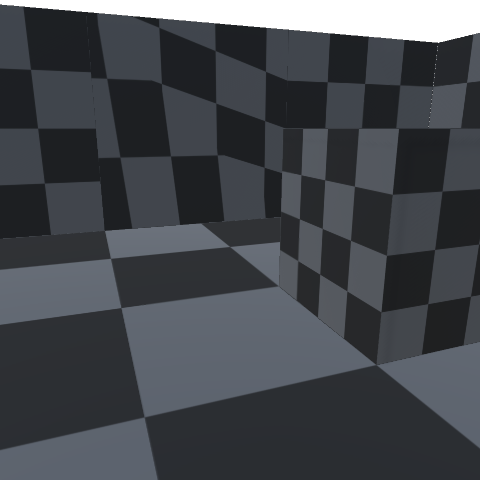
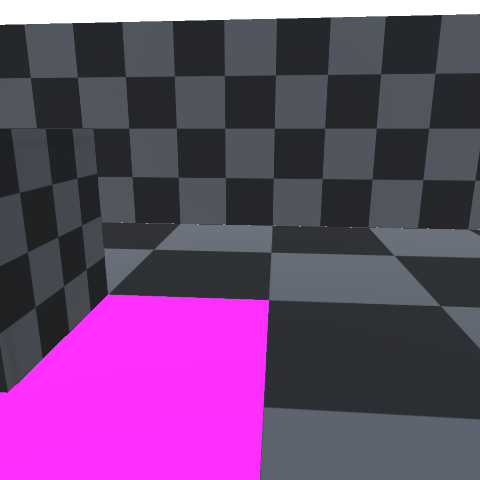
black screen is finally working

diff --git a/UnityProject/Assets/Scripts/World/Bug/BlackScreen.cs b/UnityProject/Assets/Scripts/World/Bug/BlackScreen.cs
@@ -4,22 +4,49 @@ using UnityEngine;
 using UnityEngine.UI;
 
 public class BlackScreen : Bug {
-
-    public Canvas canvas;
-    public Color color = new Color(0f,0f,0f,1f);
+    
+    public Camera _camera; 
     public Vector2Int range = new Vector2Int(5, 50);
 
-    protected Image image;
     protected bool _enabled = false;
     protected int lastFrame = 0;
     protected int toWait = 0;
 
+    protected delegate void OnOff();
+    protected OnOff[] _OnOff;
+    protected int _toggle;
+
+    protected CameraMono[] monos;
+
+    protected void On() {
+        _camera.SetReplacementShader(Shader.Find("Bug/Empty"), "RenderType");
+        foreach(CameraMono mono in monos) {
+            mono.mono = true;
+        }
+    }
+
+    protected void Off() {
+        if (_camera != null) {
+            _camera.ResetReplacementShader();
+        }
+        foreach(CameraMono mono in monos) {
+            if (mono != null) {
+                mono.mono = false;
+            }
+        }
+    }
 
     void Awake() { 
-        canvas.gameObject.AddComponent<Image>();
-        image = canvas.gameObject.GetComponent<Image>();
-        GetComponent<BugTag>().TagCanvas(canvas.gameObject);
-        Off(); // make the image transparent
+        // TODO make this work for multiple main cameras aswell? 
+        // CameraMono could also be used for create the black screen (instead of disabling the shader?) who knows...
+        _OnOff = new OnOff[] { this.On, this.Off };
+        Camera[] cameras = CameraExtensions.GetBugMaskCameras();
+        monos = new CameraMono[cameras.Length];
+        for (int i = 0; i < cameras.Length; i++) {
+            CameraMono mono = cameras[i].gameObject.AddComponent<CameraMono>();
+            mono.color = (Color) GetComponent<BugTag>().bugType;
+            monos[i] = mono;
+        }
     }
 
     public void OnEnable() {
@@ -30,19 +57,13 @@ public class BlackScreen : Bug {
         _enabled = false;
     }
 
-    void On() {
-        color.a = 1;
-        image.color = color;
-    }
-
-    void Off() {
-        color.a = 0;
-        image.color = color;
-    }
-
     void toggle() {
-        color.a = Mathf.Abs(1 - color.a);
-        image.color = color;
+        _toggle = 1 - _toggle;
+        _OnOff[_toggle]();
+    }
+    
+    void OnDestroy() {
+        Off();
     }
 
     public override bool InView(Camera camera) { 
@@ -51,9 +72,7 @@ public class BlackScreen : Bug {
 
     void Update() { 
         if (_enabled) {
-
             if (Time.frameCount - lastFrame > toWait) {
-                
                 toWait = UnityEngine.Random.Range(range.x, range.y);
                 lastFrame = Time.frameCount;
                 toggle();

diff --git a/UnityProject/Assets/Scripts/World/Bug/BugMasking/BugMaskReplacementShader.cs b/UnityProject/Assets/Scripts/World/Bug/BugMasking/BugMaskReplacementShader.cs
@@ -2,30 +2,23 @@
 using System.Collections;
 using System.Collections.Generic;
 
+[ExecuteInEditMode]
 public class BugMaskReplacementShader : MonoBehaviour {
-    public Shader ReplacementShader;
-    public bool debug;
 
-    void Start() {
-        GameObject parent = gameObject.transform.parent.gameObject;
-        bool isFirstChild = parent.GetComponent<BugMaskReplacementShader>() == null;
-        if (Application.isEditor && debug && isFirstChild) {
-            // create a clone and make it render to the second display...
-            GameObject debugCamera = Instantiate(gameObject);
-            debugCamera.transform.parent = gameObject.transform;
-            Camera _debugCamera = debugCamera.GetComponent<Camera>();
-            _debugCamera.targetTexture = null;
-            _debugCamera.targetDisplay = 1;
-        }
-    }
+
+    public Material[] postProcess;
+    public Shader maskShader;
+
+    protected Camera _camera;
+    public RenderTexture MaskTexture { get { return _camera.targetTexture; }}
+
 
     void Awake() {
-        if (ReplacementShader != null) {
-           GetComponent<Camera>().SetReplacementShader(ReplacementShader, "RenderType");
-        }     
+        _camera = GetComponent<Camera>();
+        _camera.SetReplacementShader(maskShader, "RenderType");
     }
 
     void OnDestroy() {
-        GetComponent<Camera>().ResetReplacementShader();
+        _camera.ResetReplacementShader();
     }
 }

diff --git a/UnityProject/Assets/Editor/BugMaskCameraPreview.cs b/UnityProject/Assets/Editor/BugMaskCameraPreview.cs
@@ -1,0 +1,38 @@
+using UnityEditor;
+using UnityEngine;
+using System.Collections;
+using System.Collections.Generic;
+
+class BugMaskCameraPreview : EditorWindow {
+
+    protected Camera camera;
+
+    [MenuItem ("Window/BugMaskPreview")]
+    public static void ShowWindow() {
+        EditorWindow editorWindow = GetWindow(typeof(BugMaskCameraPreview));
+        editorWindow.autoRepaintOnSceneChange = true;
+        editorWindow.Show();
+        editorWindow.minSize = new Vector2(10,10);
+    }
+
+    void OnEnable() {
+        // find camera that contains the bug mask render texture...
+        Camera[] cameras = CameraExtensions.GetBugMaskCameras();
+        camera = cameras[0]; // TODO multiple camera support?
+    }
+
+    void OnGUI() {
+        RenderTexture mask = camera.targetTexture;
+        GUI.DrawTexture(GetBounds(), mask);    
+    }
+
+    Rect GetBounds() {
+        float w = camera.targetTexture.width * 2;
+        float h = camera.targetTexture.height * 2;
+
+        float dw = position.width - w;
+        float dh = position.height - h;
+
+        return new Rect(dw / 2, dh / 2, w, h);
+    }
+}

diff --git a/UnityProject/Assets/Scripts/World/Bug/BugMasking/BugMask.cs b/UnityProject/Assets/Scripts/World/Bug/BugMasking/BugMask.cs
@@ -24,8 +24,10 @@ public class BugMask : MonoBehaviour {
     protected Dictionary<int, MaskData> _masks = new Dictionary<int, MaskData>(); // map from RenderTexture GUID to pixel array (mask)
     
     public int[] Mask(Camera camera) {
-        RenderTexture _renderTexture = camera.targetTexture;
-        if (camera.targetTexture == null) {
+        BugMaskReplacementShader replacementShader = camera.gameObject.GetComponent<BugMaskReplacementShader>();
+        RenderTexture _renderTexture = replacementShader.MaskTexture;
+    
+        if (_renderTexture == null) {
             throw new NullReferenceException("Camera does not contain a RenderTexture.");
         }
         int _id = _renderTexture.GetInstanceID();

diff --git a/UnityProject/Assets/Scripts/World/Bug/CameraMono.cs b/UnityProject/Assets/Scripts/World/Bug/CameraMono.cs
@@ -1,0 +1,27 @@
+using System.Collections;
+using System.Collections.Generic;
+using UnityEngine;
+
+public class CameraMono : MonoBehaviour {
+
+    public Color color;
+    protected Material _material;
+    public bool mono = false;
+
+    void OnRenderImage(RenderTexture src, RenderTexture dst) {
+        if (mono) {
+            Graphics.Blit(src, dst, _material);
+        } else {
+            Graphics.Blit(src, dst);
+        }
+    }
+
+    void Awake() {
+        Shader shader = Shader.Find("Bug/Mono");
+        _material = new Material(shader);
+    }
+
+    void Start() {
+        _material.SetColor("_BugType", (Color32) color);
+    }
+}

diff --git a/UnityProject/Assets/Scripts/utils/Extension.cs b/UnityProject/Assets/Scripts/utils/Extension.cs
@@ -1,0 +1,14 @@
+using System;
+using System.Collections;
+using System.Collections.Generic;
+using System.Linq;
+
+using UnityEngine;
+
+public static class CameraExtensions {
+
+    public static Camera[] GetBugMaskCameras() {
+        return Array.FindAll(Camera.allCameras, x => x.GetComponent<BugMaskReplacementShader>() != null).ToArray();
+    }
+}
+

diff --git a/UnityProject/Assets/Scripts/World/Bug/TextureMissing.cs b/UnityProject/Assets/Scripts/World/Bug/TextureMissing.cs
@@ -14,7 +14,6 @@ public class TextureMissing : Bug {
     protected Color _color;
 
     public void OnEnable() {
-        Debug.Log("TEXTURE MISSING ACTIVE");
         BugTag tag = GetComponent<BugTag>();
         // get children of the given game object (level)
         Transform[] children = level.transform.GetComponentsInChildren<Transform>(true);
